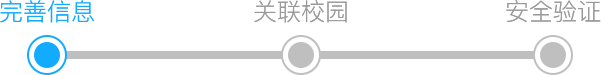
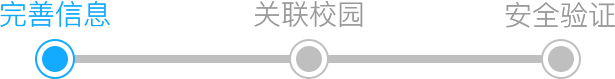
-

diff --git a/src/components/addWatchInfo/js/addWatchInfo.jsx b/src/components/addWatchInfo/js/addWatchInfo.jsx
@@ -114,18 +114,22 @@ export default class addWatchInfo extends React.Component {
 
     componentDidMount () {
         Bridge.setShareAble("false");
+        console.log($('.commonLocation-cont').height());
         /**
      * 防止软键盘挡住页面
      */
-        var winHeight = $(window).height(); // 获取当前页面高度  
+        var winHeight = $(window).height(); // 获取当前页面高度
         $(window).resize(function () {
             var resizeHeight = $(this).height();
             if (winHeight - resizeHeight > 50) {
-                // 软键盘弹出  
-                $('body').css('height', winHeight + 'px');
+                console.log($('.commonLocation-cont').height());
+                // 软键盘弹出
+                $('.commonLocation-cont').css('top', '-100px');
+                $(".button_preNext").hide();
             } else {
                 //软键盘收起
-                $('body').css('height', '100%');
+                $('.commonLocation-cont').css('top', '0');
+                $(".button_preNext").show();
             }
         });
     }
@@ -822,27 +826,25 @@ export default class addWatchInfo extends React.Component {
                 <div className="commonLocation-cont bg_white">
                     <div className="firDiv">
                         <div className="p38 innerCont">
-                            <div className="infoContent">
-                                <div className='line_publicD'>
-                                    <div className="p10 scanDiv">
-                                        <span className='text_hidden color_c' style={{ display: this.state.macAddress ? "none" : "inline-block" }}>请扫描手表二维码</span>
-                                        <span className='text_hidden' style={{ display: this.state.macAddress ? "inline-block" : "none" }}>{this.state.macAddress}</span>
-                                        <span className='scanBtn' onClick={this.scanCode}>扫描</span>
-                                    </div>
+                            <div className='line_publicD'>
+                                <div className="p10 scanDiv activeDiv">
+                                    <span className='text_hidden color_c' style={{ display: this.state.macAddress ? "none" : "inline-block" }}>请扫描手表二维码</span>
+                                    <span className='text_hidden' style={{ display: this.state.macAddress ? "inline-block" : "none" }}>{this.state.macAddress}</span>
+                                    <span className='scanBtn' onClick={this.scanCode}>扫描</span>
                                 </div>
-                                <div className={'selectDown relation line_publicD ' + this.state.RelationClassName}>
-                                    <Picker
-                                        data={this.state.relationData}
-                                        value={this.state.relationValue}
-                                        cols={1}
-                                        extra={this.state.flag ? "我是他的" : this.state.relationValue}
-                                        onChange={this.onRelationChange}
-                                        onOk={this.clickRelationSure}
-                                        onDismiss={this.onRelationCancel}
-                                    >
-                                        <List.Item arrow="horizontal"></List.Item>
-                                    </Picker>
-                                </div>
+                            </div>
+                            <div className={'selectDown relation line_publicD ' + this.state.RelationClassName}>
+                                <Picker
+                                    data={this.state.relationData}
+                                    value={this.state.relationValue}
+                                    cols={1}
+                                    extra={this.state.flag ? "我是他的" : this.state.relationValue}
+                                    onChange={this.onRelationChange}
+                                    onOk={this.clickRelationSure}
+                                    onDismiss={this.onRelationCancel}
+                                >
+                                    <List.Item arrow="horizontal"></List.Item>
+                                </Picker>
                             </div>
                         </div>
                         <div className='submitBtn' onClick={this.nextFirPage}>下一步</div>
@@ -850,8 +852,22 @@ export default class addWatchInfo extends React.Component {
                     <div className="secDiv" style={{ display: "none" }}>
                         <div className="p38">
                             <div className='dec'>手表初次绑定，请完善相关信息</div>
-                            <img className='progressPic' src={require('../../images/progress1.png')} alt="" />
-                            <div className="infoContent selectDown">
+                            <div className="progress progress1">
+                                <div className="my_flex text">
+                                    <span className='active'>完善信息</span>
+                                    <span>关联校园</span>
+                                    <span>安全验证</span>
+                                </div>
+                                <div className="circle">
+                                    <div className="line lineGray"></div>
+                                    <div className='my_flex icon_circle'>
+                                        <span className='active'><i></i></span>
+                                        <span><i></i></span>
+                                        <span><i></i></span>
+                                    </div>
+                                </div>
+                            </div>
+                            <div className="innerCont selectDown">
                                 <div className={'sex line_publicD ' + this.state.extraClassName}>
                                     <Picker
                                         data={sexData}
@@ -895,10 +911,27 @@ export default class addWatchInfo extends React.Component {
                         </div>
 
                     </div>
-                    <div className="thirDiv" style={{ display: "none" }}>
+                    <div className="thirDiv"  style={{ display: "none" }}>
                         <div className="p38 stuAccountRegist">
                             <div className='dec'>手表初次绑定，请完善相关信息</div>
-                            <img className='progressPic' src={require('../../images/progress2.png')} alt="" />
+                            <div className="progress progress2">
+                                <div className="my_flex text">
+                                    <span className='active'>完善信息</span>
+                                    <span className='active'>关联校园</span>
+                                    <span>安全验证</span>
+                                </div>
+                                <div className="circle">
+                                    <div className="lines my_flex">
+                                        <div className="line lineGray"></div>
+                                        <div className="line lineBlue"></div>
+                                    </div>
+                                    <div className='my_flex icon_circle'>
+                                        <span className='active'><i></i></span>
+                                        <span className='active'><i></i></span>
+                                        <span><i></i></span>
+                                    </div>
+                                </div>
+                            </div>
                             <div className="p29">
                                 <Tabs onChange={this.onTabsChange} tabs={tabs} initialPage={0} animated={false} useOnPan={false}>
                                     <div className="tabCont">
@@ -915,8 +948,8 @@ export default class addWatchInfo extends React.Component {
                                     <div>
                                         <div>
                                             <div className="innerCont tabCont">
-                                                <div className="infoContent selectDown">
-                                                    <div className='am-list-item am-list-item-middle line_publicD icon-graySchool '
+                                                <div className="selectDown">
+                                                    <div className='am-list-item am-list-item-middle line_publicD icon-graySchool activeDiv'
                                                         onClick={this.schoolOnClick}>
                                                         <div className="am-list-line">
                                                             <div className="am-list-content"></div>
@@ -961,7 +994,22 @@ export default class addWatchInfo extends React.Component {
                     <div className="forDiv" style={{ display: "none" }}>
                         <div className="p38">
                             <div className='dec'>手表初次绑定，请完善相关信息</div>
-                            <img className='progressPic' src={require('../../images/progress3.png')} alt="" />
+                            <div className="progress progress3">
+                                <div className="my_flex text">
+                                    <span className='active'>完善信息</span>
+                                    <span className='active'>关联校园</span>
+                                    <span className='active'>安全验证</span>
+                                </div>
+                                <div className="circle">
+                                    <div className="line lineBlue"></div>
+                                    <div className='my_flex icon_circle'>
+                                        <span className='active'><i></i></span>
+                                        <span className='active'><i></i></span>
+                                        <span className='active'><i></i></span>
+                                    </div>
+                                </div>
+                            </div>
+                            {/*<img className='progressPic' src={require('../../images/progress3.png')} alt="" />*/}
                             <div className="p29 login-input">
                                 <div className='accountName'>
                                     {this.state.littleAntName}
@@ -994,7 +1042,21 @@ export default class addWatchInfo extends React.Component {
                     <div className="regiForDiv" style={{ display: "none" }}>
                         <div className="p38">
                             <div className='dec'>手表初次绑定，请完善相关信息</div>
-                            <img className='progressPic' src={require('../../images/progress3.png')} alt="" />
+                            <div className="progress progress3">
+                                <div className="my_flex text">
+                                    <span className='active'>完善信息</span>
+                                    <span className='active'>关联校园</span>
+                                    <span className='active'>安全验证</span>
+                                </div>
+                                <div className="circle">
+                                    <div className="line lineBlue"></div>
+                                    <div className='my_flex icon_circle'>
+                                        <span className='active'><i></i></span>
+                                        <span className='active'><i></i></span>
+                                        <span className='active'><i></i></span>
+                                    </div>
+                                </div>
+                            </div>
                             <div id="validationMes">
                                 <div className="p29">
                                     <div className="infoContent">

diff --git a/src/components/addWatchInfo/css/addWatchInfo.less b/src/components/addWatchInfo/css/addWatchInfo.less
@@ -3,6 +3,9 @@
   height: 100%;
   box-sizing: border-box;
   background-color: white;
+  .activeDiv:active{
+    background-color: rgba(13, 140, 216, 0.2)
+  }
   .am-navbar-blue{
     position: absolute;
     top: 0;
@@ -75,6 +78,9 @@
       background: url("../../images/icon_grayAccount.png") no-repeat left 22px;
       background-size: 24px;
     }
+  }
+  .accountName{
+    color: #10A7FC;
   }
   .icon_birth{
     .am-list-line{
@@ -176,10 +182,98 @@
   }
 
   /*完善进度*/
+  .progress{
+    padding-top: 70px;
+    .circle{
+      .lineGray{
+        background-color: #BFBFBF;
+      }
+      .lineBlue{
+        background-color: #13ABFD;
+      }
+    }
+    .text{
+      justify-content: space-between;
+      color: #BFBFBF;
+      font-size: 14px;
+      span.active{
+        color: #17ACF7;
+      }
+    }
+    .circle{
+      position: relative;
+      width: 100%;
+      height: 20px;
+      .line{
+        height: 4px;
+        width: calc(~"100% - 34px");
+        position: absolute;
+        left: 17px;
+        top: 50%;
+        -webkit-transform: translateY(-50%);
+        -moz-transform: translateY(-50%);
+        -ms-transform: translateY(-50%);
+        -o-transform: translateY(-50%);
+        transform: translateY(-50%);
+        z-index: 5;
+      }
+      .lines{
+        .lineBlue{
+          width: calc(~"50% - 17px");
+        }
+        .lineGray{
+          width: calc(~"50% - 17px");
+          left: auto;
+          right: 17px;
+        }
+      }
+      .icon_circle{
+        padding: 0 17px;
+        box-sizing: border-box;
+        position: absolute;
+        left: 0;
+        top: 0;
+        z-index: 10;
+        width: 100%;
+        height: 100%;
+        justify-content: space-between;
+        span{
+          border: 1px #BFBFBF solid;
+          border-radius: 50%;
+          width: 20px;
+          height: 20px;
+          box-sizing: border-box;
+          padding: 3px;
+          display: block;
+          background-color: white;
+          &.active{
+            border: 1px #13ABFD solid;
+            i{
+              background-color: #13ABFD;
+            }
+          }
+          i{
+            display: block;
+            width: 100%;
+            height: 100%;
+            border-radius: 50%;
+            background-color: #BFBFBF;
+          }
+        }
+      }
+    }
+  }
   .dec{
-    text-align: center;
-    padding-top: 30px;
-    padding-bottom: 25px;
+    text-align: left;
+    position: absolute;
+    left: 0;
+    top: 64px;
+    width: 100%;
+    box-sizing: border-box;
+    padding: 8px 30px;
+    background-color: #ededed;
+    color: #666;
+    font-size: 13px;
   }
   .progressPic{
     width: 100%;
@@ -188,7 +282,7 @@
   .tabCont{
     border: 1px #E5E5E5 solid;
     border-top: none;
-    padding: 20px 20px 50px;
+    padding: 15px 20px 50px;
   }
 
   .am-tabs-default-bar-underline,.am-tabs-default-bar-top .am-tabs-default-bar-tab::after{
@@ -216,15 +310,33 @@
     border: 1px #E5E5E5 solid;
     border-radius: 5px 5px 0 0;
     font-size: 15px;
-    color: #666;
+    color: #17ACF7;
     border-bottom: 0;
     background-color: #fff;
     margin-top: 0;
+    &::before{
+      content: '';
+      width: 95%;
+      height: 2px;
+      background-color: #17ACF7;
+      position: absolute;
+      top: 0;
+      left: 50%;
+      -webkit-transform: translateX(-50%);
+      -moz-transform: translateX(-50%);
+      -ms-transform: translateX(-50%);
+      -o-transform: translateX(-50%);
+      transform: translateX(-50%);
+    }
   }
   .p29{
-    padding-top: 29px;
+    padding-top: 40px;
   }
   .commonLocation-cont{
+    position: absolute;
+    top: 0;
+    left: 0;
+    width: 100%;
     height: 100%;
     padding-top: 64px;
     box-sizing: border-box;

diff --git a/src/components/rankingList/js/detailPage.jsx b/src/components/rankingList/js/detailPage.jsx
@@ -353,13 +353,7 @@ export default class detailPage extends React.Component {
     render () {
         return (
             <div id='detailPage'>
-                <div className="am-navbar" style={{
-                        position: fixed,
-                        top: 0,
-                        left: 0,
-                        zIndex: 111,
-                        width: "100%",
-                }}>
+                <div className="am-navbar">
                     <span className="am-navbar-left" onClick={this.toBack}><i className="icon-back"></i></span>
                     <span className="am-navbar-title">{this.state.today == 1 ? "今日排行榜详情":"本周排行榜详情"}</span>
                     <span className="am-navbar-right"></span>

diff --git a/src/helpers/webServiceUtil.js b/src/helpers/webServiceUtil.js
@@ -1,7 +1,7 @@
 var isDebug = true;
 var localDomain = "192.168.50.15";   //请求地址
 var isDebugLocal = true;
-var localUrl = "192.168.50.72";    //跳转地址本地地址
+var localUrl = "192.168.50.39";    //跳转地址本地地址
 var isSafeDebug = true;     //false则为隐藏主页列表，本地调试改为true
 
 

diff --git a/src/index.less b/src/index.less
@@ -381,6 +381,9 @@ img{
 .am-list-item .am-list-line::after{
   background: transparent !important;
 }
+.am-list-item-active{
+  background-color: rgba(13, 140, 216, 0.3) !important;
+}
 .login-input{
   .am-list-item .am-input-control input::placeholder{
     color: #ccc !important;

diff --git a/src/components/stuAccountRegist/css/validationMes.less b/src/components/stuAccountRegist/css/validationMes.less
@@ -27,6 +27,7 @@
     background-size: 24px;
   }
   .School-information{
+    color: #10A7FC;
     width: 100%;
     .school{
       margin-right: 10px;
